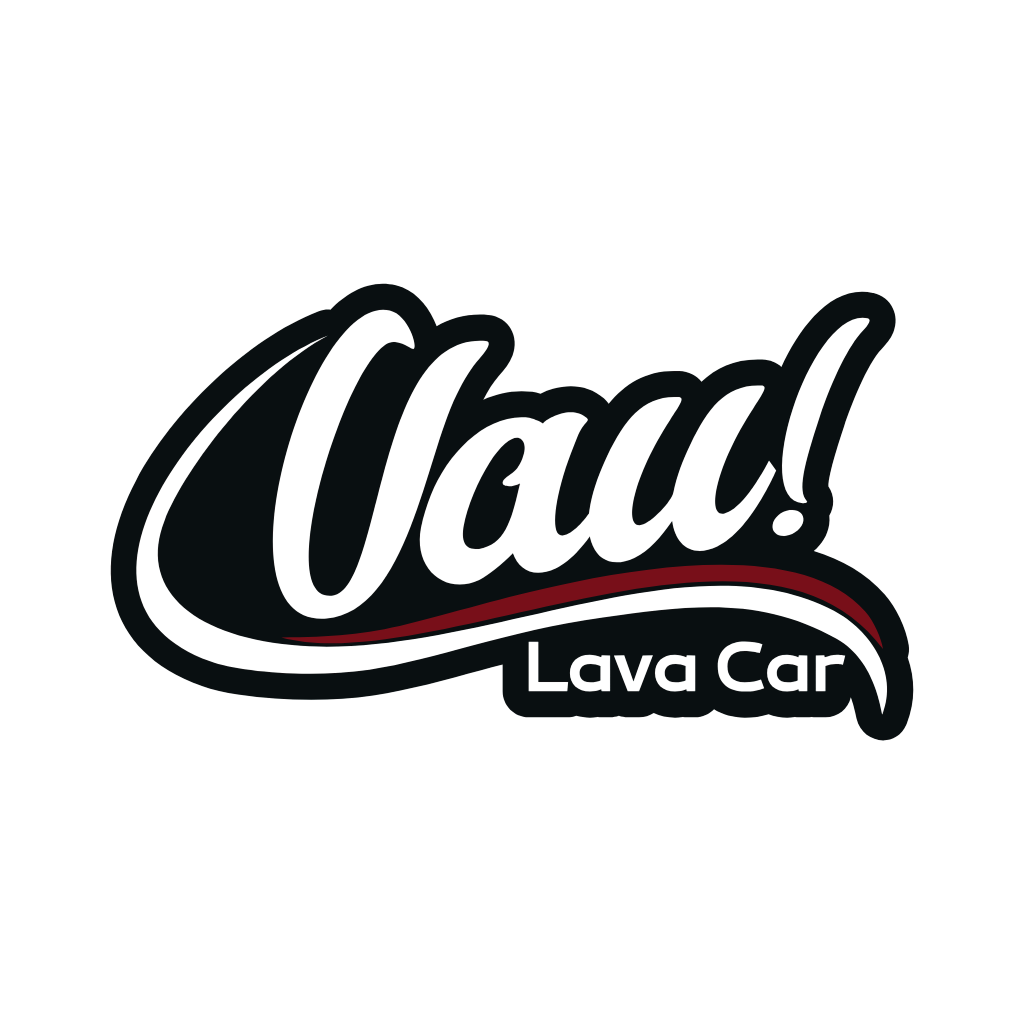
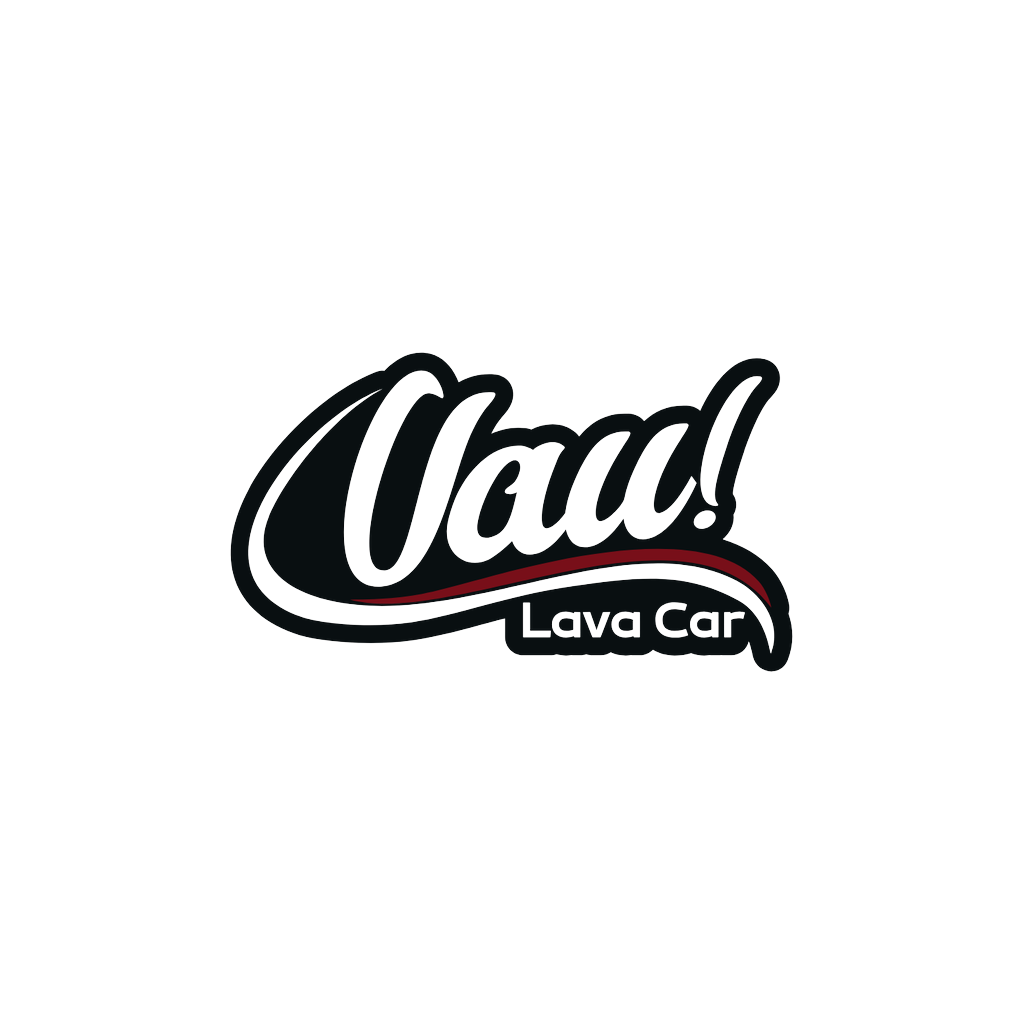
fix(mobile): corrige splash eterna e ajusta ícones
- auth.store: envolve restoreSession em try/catch externo para garantir
  isLoading=false mesmo em falhas do SecureStore/keystore do Android
- _layout: remove dependência de fontsLoaded para esconder splash,
  pois fonts são pré-carregadas pelo plugin expo-font como native assets
- assets: icon.png (70%) e adaptive-icon.png (55% / dentro da safe zone)
  com padding profissional via Pillow

Changed region(s): [[0.0938, 0.2812, 0.9062, 0.7188]]

diff --git a/uau-mobile-app/src/auth/auth.store.ts b/uau-mobile-app/src/auth/auth.store.ts
@@ -56,22 +56,22 @@ export const useAuthStore = create<AuthState>((set) => ({
   },
 
   async restoreSession() {
-    set({ isLoading: true });
-    const accessToken = await SecureStore.getItemAsync(ACCESS_TOKEN_KEY);
-
-    if (!accessToken) {
-      set({ accessToken: null, user: null, isAuthenticated: false, isLoading: false });
-      return;
-    }
-
-    const cachedUser = await SecureStore.getItemAsync(USER_KEY);
-    if (!cachedUser) {
-      await clearSession();
-      set({ accessToken: null, user: null, isAuthenticated: false, isLoading: false });
-      return;
-    }
-
     try {
+      set({ isLoading: true });
+      const accessToken = await SecureStore.getItemAsync(ACCESS_TOKEN_KEY);
+
+      if (!accessToken) {
+        set({ accessToken: null, user: null, isAuthenticated: false, isLoading: false });
+        return;
+      }
+
+      const cachedUser = await SecureStore.getItemAsync(USER_KEY);
+      if (!cachedUser) {
+        await clearSession();
+        set({ accessToken: null, user: null, isAuthenticated: false, isLoading: false });
+        return;
+      }
+
       const user = JSON.parse(cachedUser) as ApiUser;
       set({ accessToken, user, isAuthenticated: true, isLoading: false });
       try {
@@ -82,7 +82,8 @@ export const useAuthStore = create<AuthState>((set) => ({
         // Mantém usuário em cache até existir rota de perfil no backend.
       }
     } catch {
-      await clearSession();
+      // Qualquer falha inesperada do SecureStore ou keystore → vai para login
+      await clearSession().catch(() => {});
       set({ accessToken: null, user: null, isAuthenticated: false, isLoading: false });
     }
   },

diff --git a/uau-mobile-app/app/_layout.tsx b/uau-mobile-app/app/_layout.tsx
@@ -14,19 +14,21 @@ SplashScreen.preventAutoHideAsync();
 export default function RootLayout() {
   const restoreSession = useAuthStore((state) => state.restoreSession);
   const isLoading = useAuthStore((state) => state.isLoading);
-  const [fontsLoaded] = useFonts({ ...Ionicons.font });
+  // Fonts são pré-carregadas pelo plugin expo-font no app.json (native assets).
+  // useFonts ainda é chamado para compatibilidade, mas não bloqueia a splash.
+  useFonts({ ...Ionicons.font });
 
   useEffect(() => {
     void restoreSession();
   }, [restoreSession]);
 
   useEffect(() => {
-    if (!isLoading && fontsLoaded) {
+    if (!isLoading) {
       void SplashScreen.hideAsync();
     }
-  }, [isLoading, fontsLoaded]);
+  }, [isLoading]);
 
-  if (isLoading || !fontsLoaded) {
+  if (isLoading) {
     return null;
   }
 